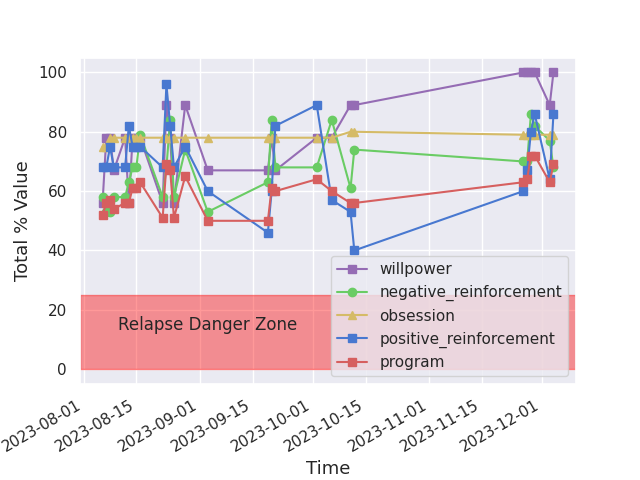
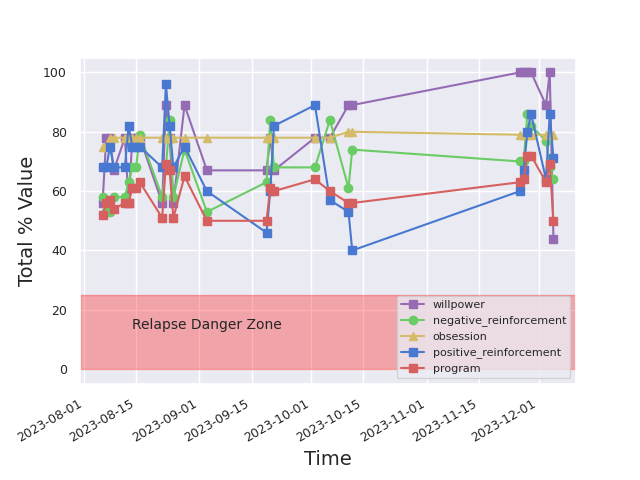
plot made prettier

diff --git a/total_behavioural_tracker/src/util.py b/total_behavioural_tracker/src/util.py
@@ -18,7 +18,8 @@ PATHS = CFG['paths']
 DAT_FILE = PATHS['data']
 IMG_FILE = PATHS['img']
 VARS_DIR = PATHS['vars_dir']
-AXES_FONT_SIZE=CFG['util']['axes_font_size']
+
+PLOT = CFG['util']['plot']
 
 
 def reset_user_configs():
@@ -108,17 +109,22 @@ def get_formatted_df():
     return df
 
 def set_plot_options(df:pd.DataFrame) -> None:
+    WARN=PLOT['warning']
+    LEG=PLOT['legend']
+    AXES=PLOT['axes']
     sns.set_theme(context='notebook',style='darkgrid',palette='muted')
     df.plot(style=['ms-', 'go-', 'y^-', 'bs-', 'rs-'])
-    plt.legend(loc='lower right')
-    plt.axhspan(ymin=0, ymax=25, color='red', alpha=0.4)
-    plt.text(x=df.index[round(len(df.index) / 2)], y=15, s='Relapse Danger Zone', fontsize=12, va='center', ha='center')
-    plt.xlabel('Time', fontsize=AXES_FONT_SIZE)
-    plt.ylabel('Total % Value', fontsize=AXES_FONT_SIZE)
+    plt.legend(loc=LEG['loc'],fontsize=LEG['font_size'])
+    plt.axhspan(ymin=0, ymax=25, color=WARN['color'], alpha=WARN['opacity'])
+    plt.text(x=df.index[round(len(df.index) / 2)], y=15, s='Relapse Danger Zone', fontsize=WARN['font_size'], va='center', ha='center')
+    plt.xlabel('Time', fontsize=AXES['font_size'])
+    plt.ylabel('Total % Value', fontsize=AXES['font_size'])
+    # Set the fontsize for the tick labels
+    ax = plt.gca()
+    ax.tick_params(axis='x', labelsize=AXES['tick_font_size'])  
+    ax.tick_params(axis='y', labelsize=AXES['tick_font_size']) 
     plt.savefig(IMG_FILE)
-
 
 def store_daily_visualization()->None:
     df=get_formatted_df()
     set_plot_options(df),plt.savefig(IMG_FILE)
-    

diff --git a/total_behavioural_tracker/README.md b/total_behavioural_tracker/README.md
@@ -1,4 +1,17 @@
+
+
+
+
+
+
+
+
+
+
+
+
 CLEANCODE: 	
+	- Need to update main.py so the image in the view is automatically updated after a measurement []
 	- Generalize to OOP in some files [ALMOST DONE...]
 		- text blurbs []
 			-> some of the text doesn't wrap like in the config and main view but it does in the about and measure view ? 
@@ -6,29 +19,40 @@ CLEANCODE:
 
 FORMATTING:
 	general: 
+		- Popups need titles, looks really fucking ugly atm []
 		- Pick a font and standardize it across the app []
-	Page: 
+	UI: 
 		image: 
 			- Move the legend box to bottom left, and the leggend-box should be wayy smaller []
 			- save image to a set-size []
-Features:
+			- Need to make sure that the warning is in the middle regardless of the number of entries []
+				-> take avg between first and last measurement and find the avg() of those two and the closest in the df
+        Github:
+                - git submodule []
+                - setup public permissions []
+                - Public ReadMe []
+
+
+
+FEATURES:
 	- Daily Notification []
+	- Highlight Data with cursor [] 
 
-
-Deployment Testing: 
+TESTING: 
 	- Security Testing []
-	- Public Github []
-	- Public ReadMe []
-	- IOS []
-	- Android []
+		- this must be automated somewhere []	
 
+	- Build & Deployement: 
+		- IOS: 
+			- fuck my life I need to find somewhere I can use Xcode... []
+		- Android:
+			- buildozer build scripts and shit, easy money []
 
 From Micheal: 
 	- About Page blurb properly explaining the equation []
 	- Ref for book []
 
-
 Submission:
 	- GooglePlay []
 	- AppleStore []
-`
+
